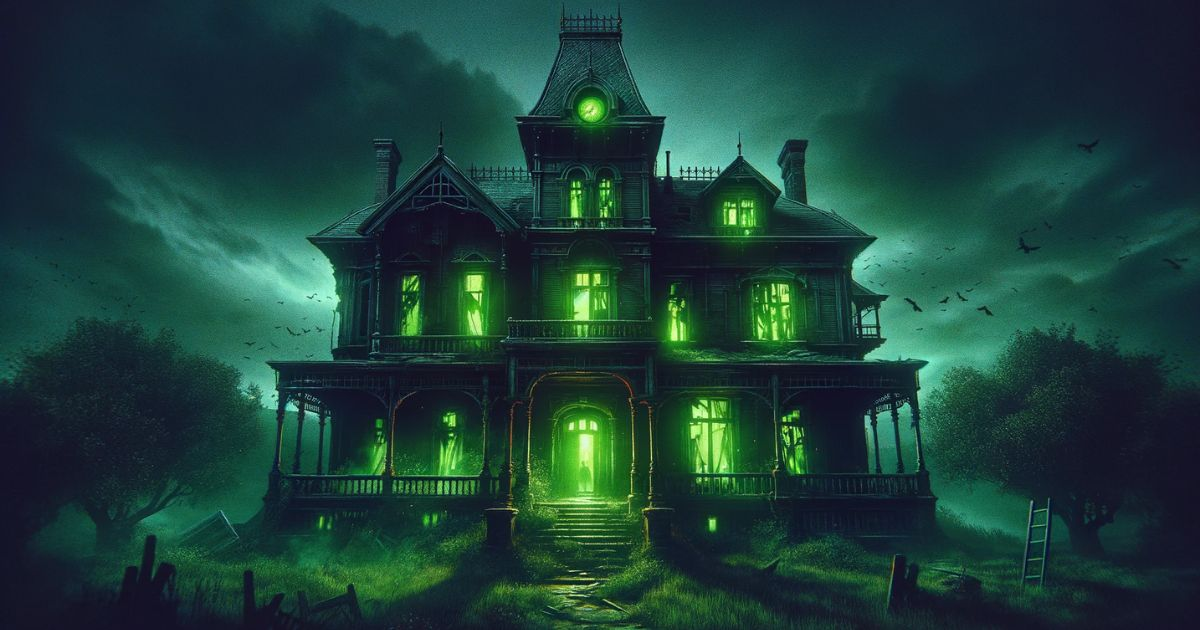
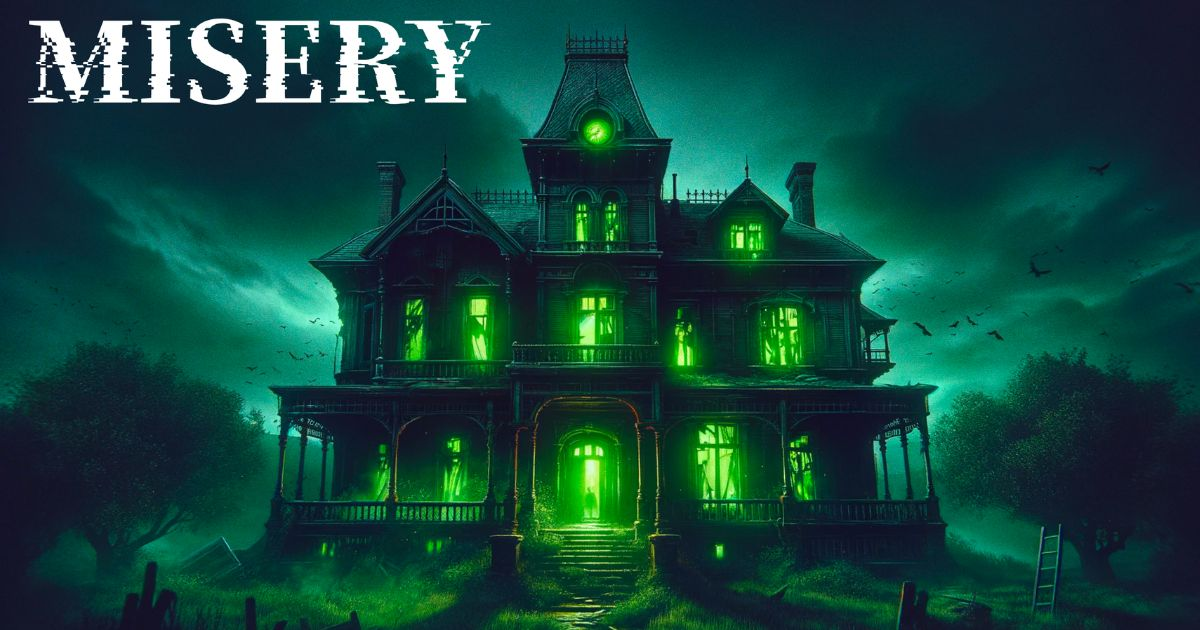
OGP画像に文字の追加

diff --git a/src/app/credits/dirty/[slug]/page.tsx b/src/app/credits/dirty/[slug]/page.tsx
@@ -50,27 +50,48 @@ export default function Home({ params }: { params: { slug: string } }) {
       <div className="thanks-message">
         Thank You For Playing!!
       </div>
-      <main className="flex min-h-screen flex-col items-center justify-between p-24">
-				<Link href="https://twitter.com/share?url=https://misery-seven.vercel.app/">
-				  Twitter
-			  </Link>
-		  </main>
+     
       {/* Twitterリンク */}
       <button className="icon"
-      
       onClick={() => {
-        const tweetText = "脱出成功したよ。遊んでくれてありがと👻 #Misery";
-        const pageUrl = "https://your-website.com/your-page";
-        
+        const tweetOptions = [
+          "この館の残影に、闇よりも深い秘密が眠る。",
+          "彼らが挑む、過去の鎖を断ち切る試練。",
+          "生ける者に告ぐ、彼女の闇に踏み入るな。",
+          "彼女の呪縛は永遠なり、その呼び声に応える者は…。",
+          "亡霊少女の遊戯、その終わりなき螺旋。",
+          "破滅を招く少女、その影が映すは真か謎か。",
+          "彼らの運命は交錯し、一人の少女と邂逅する。",
+          "館は語る、千年の孤独を、少女の絶望を。",
+          "館に響くは、禁断の詠唱。",
+          "屋敷の門を開く者、永遠の闇に囚われん。",
+          "逃れがたき呪縛の館、あなたは真実を見つけ出せるか。",
+          "この洋館に響くは、悲劇のメロディー。彼女の声が導く、終焉のダンスへ。",
+          "閉ざされた扉の向こうに、彼女は不死の孤独を紡ぐ。",
+          "遺されし館の呪い、静寂が叫びに変わる時。",
+          "暗闇に浮かぶ一筋の光、それは彼女の怨嗟か、救済か。",
+          "彼女の名を呼ぶは、禁断を犯すこと。",
+          "二人が目撃する闇は、時を超えし絶望の追憶。",
+          "古の呪いが呼び覚ます、彼女の叫びを此処で聴け。",
+          "館にうごめく、絶望の鎮魂歌。",
+          "閉じ込められた過去が今、現実を織りなす枷となる。",
+          "彼女の悲鳴は、夜の帳を切り裂く禁断の調べ。",
+          
+          
+        ];
+        const tweetText = tweetOptions[Math.floor(Math.random() * tweetOptions.length)];
+        const pageUrl = "https://misery-seven.vercel.app/";
+    
         // Twitter Intentでテキストと画像URLを含めてツイート
         window.open(
-          `https://twitter.com/intent/tweet?text=${encodeURIComponent(tweetText)} ${encodeURIComponent(pageUrl)}&hashtags=Misery`,
+          `https://twitter.com/share?url=${encodeURIComponent(pageUrl)}&text=${encodeURIComponent(tweetText)}
+          &hashtags=MISERY`,
           '_blank' 
-        );
+        ); 
       }}
-      >
-          <TwitterIcon />  
-      </button>
+    >
+      <TwitterIcon />  
+    </button>
 
       {/* トップページへのリンク */}
       <Link href="/"

diff --git a/src/app/credits/clean/[slug]/page.tsx b/src/app/credits/clean/[slug]/page.tsx
@@ -53,24 +53,45 @@ export default function Home({ params }: { params: { slug: string } }) {
       </div>
       {/* Twitterリンク */}
       <button className="icon"
-        onClick={() => {
-          const tweetText = "congratulations!!。👻 #Misery";
+      onClick={() => {
+        const tweetOptions = [
+          "この館の残影に、闇よりも深い秘密が眠る。",
+          "彼らが挑む、過去の鎖を断ち切る試練。",
+          "生ける者に告ぐ、彼女の闇に踏み入るな。",
+          "彼女の呪縛は永遠なり、その呼び声に応える者は…。",
+          "亡霊少女の遊戯、その終わりなき螺旋。",
+          "破滅を招く少女、その影が映すは真か謎か。",
+          "彼らの運命は交錯し、一人の少女と邂逅する。",
+          "館は語る、千年の孤独を、少女の絶望を。",
+          "館に響くは、禁断の詠唱。",
+          "屋敷の門を開く者、永遠の闇に囚われん。",
+          "逃れがたき呪縛の館、あなたは真実を見つけ出せるか。",
+          "この洋館に響くは、悲劇のメロディー。彼女の声が導く、終焉のダンスへ。",
+          "閉ざされた扉の向こうに、彼女は不死の孤独を紡ぐ。",
+          "遺されし館の呪い、静寂が叫びに変わる時。",
+          "暗闇に浮かぶ一筋の光、それは彼女の怨嗟か、救済か。",
+          "彼女の名を呼ぶは、禁断を犯すこと。",
+          "二人が目撃する闇は、時を超えし絶望の追憶。",
+          "古の呪いが呼び覚ます、彼女の叫びを此処で聴け。",
+          "館にうごめく、絶望の鎮魂歌。",
+          "閉じ込められた過去が今、現実を織りなす枷となる。",
+          "彼女の悲鳴は、夜の帳を切り裂く禁断の調べ。",
+          
+          
+        ];
+        const tweetText = tweetOptions[Math.floor(Math.random() * tweetOptions.length)];
+        const pageUrl = "https://misery-seven.vercel.app/";
     
-          // サイトのURL
-          const url = window.location.origin;
-      
-          // ツイートに含める画像のURL
-          const imageUrl = `${url}/img/tweet-image.png`; 
-      
-          // Twitter Intentで画像とテキストを含めてツイート
-          window.open(
-            `https://twitter.com/intent/tweet?text=${tweetText}&url=${url}&hashtags=Misery&media=${imageUrl}`,
-             '_blank' 
-           );
-        }}
-      >
-        <TwitterIcon />  
-      </button>
+        // Twitter Intentでテキストと画像URLを含めてツイート
+        window.open(
+          `https://twitter.com/share?url=${encodeURIComponent(pageUrl)}&text=${encodeURIComponent(tweetText)}
+          &hashtags=MISERY`,
+          '_blank' 
+        ); 
+      }}
+    >
+      <TwitterIcon />  
+    </button>
 
       {/* トップページへのリンク */}
       <Link href="/"
